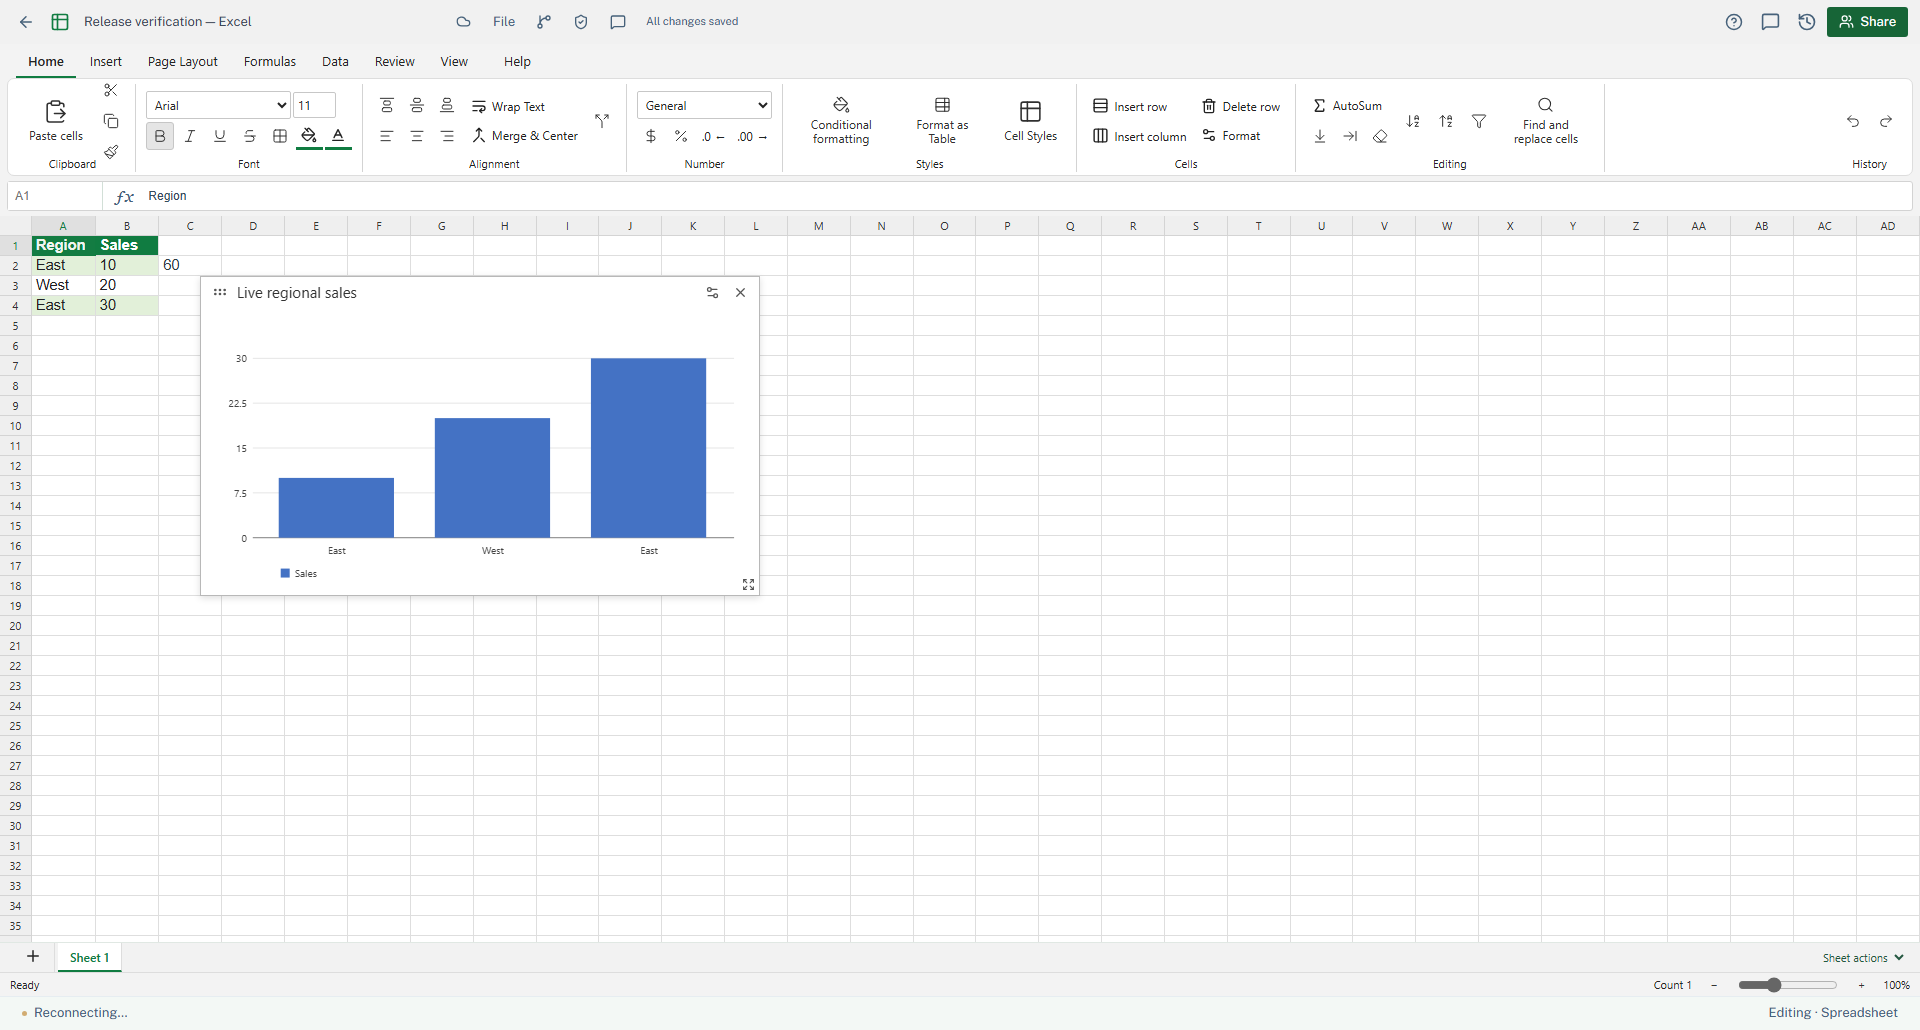
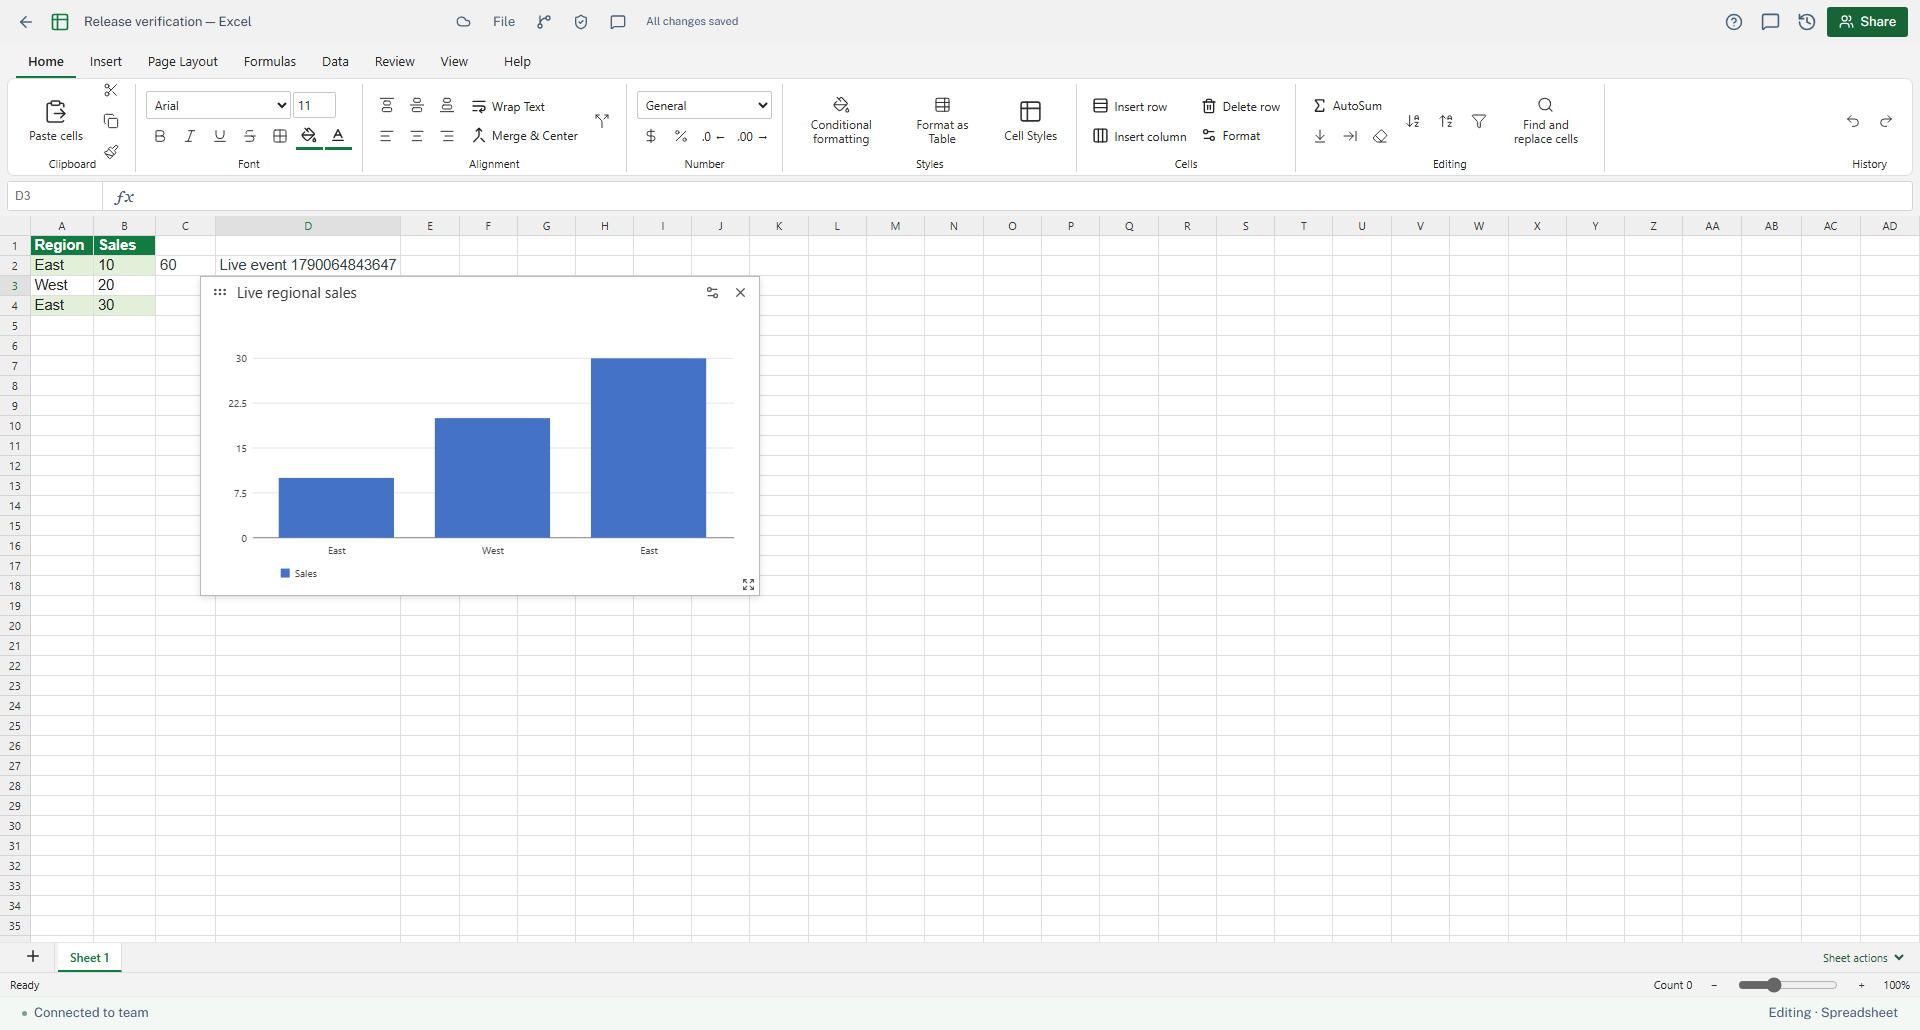
Record final CI and live cross-tab verification for the Office release

diff --git a/docs/OFFICE-EXPANSION-RELEASE.md b/docs/OFFICE-EXPANSION-RELEASE.md
@@ -37,7 +37,7 @@ Full Microsoft Office parity is not complete.
 
 - Frontend: all 121 unit tests pass in release CI. ESLint and full Prettier checks pass; Svelte/TypeScript reports zero errors and warnings. Production build passes.
 - Browser: all 33 scenarios pass across the broad production-build run (31 passes) and the focused final rerun (3 passes, one overlapping). The final rerun verifies the relocated print command, duplicate removal on Svelte state, named formulas, charts, actual pivot refresh, protection and reload. Other coverage includes concurrent edits, live page geometry, undo/identity, imports, permissions, drafts, recovery and accessibility.
-- Standalone engine: all 174 tests pass in [independent CI](https://github.com/ArefinAlter/dynodoc-engine/actions/runs/35700632086), with Rust formatting, strict Clippy, build, documentation and OpenAPI consistency for engine commit `e2a719d`. This includes protection ordering during snapshot restoration/merge; its two changed files are byte-identical in the app. All 16 SQL migration files remain byte-identical between repositories.
+- Standalone engine: all 174 tests pass in [independent CI](https://github.com/ArefinAlter/dynodoc-engine/actions/runs/35702827311), with Rust formatting, strict Clippy, build, documentation and OpenAPI consistency for engine commit `a22bf71`. This includes protection ordering during snapshot restoration/merge and immediate stream acknowledgement; all five synchronized Rust source/test files are byte-identical in the app. All 16 SQL migration files remain byte-identical between repositories.
 - Verification uses Windows Node 22.22.2, pinned Rust 1.96, a disposable PostgreSQL 16 container on loopback 5549, test-only auth/API on 8088 and a production web build on 4188. No hosted data is used. The existing development database is unchanged.
 - Synthetic 1920-pixel captures: [Excel Home ribbon](review/excel-editor-2026-09-22.png), [workbook home](review/excel-home-2026-09-22.png), [chart](review/excel-chart-2026-09-22.png). Supplied screenshots are reference material, not repository instructions or app assets.
 
@@ -87,6 +87,38 @@ preserving any unsaved text; the `office-v4` gate rejects obsolete editors.
 - Captures of the deployed UI: [Word](review/live-word-2026-09-22.png) and
   [Excel](review/live-excel-2026-09-22.png). Verification sessions use a separate
   synthetic account; screenshots contain only synthetic content.
+
+### Final stream correction
+
+Live multi-tab verification found that an idle stream could wait for its first
+30-second heartbeat before the browser received a response. Application commit
+[`b0ab062`](https://github.com/ArefinAlter/dynodoc/commit/b0ab062), ported from
+engine `a22bf71`, sends an authorized SSE comment immediately; it carries no event
+ID and does not advance replay. It is pushed to main and deployed as an API-only
+follow-up. The web bundle is unchanged from the verified Office build.
+
+The reviewed follow-up source archive SHA-256 is
[1 lines of base64/hex data omitted]
+all 398 files passed manifest verification. Source download now uses that archive.
+The second validated backup is `backups/dynodoc-20260922T080152Z.dump`; the previous
+API image is retained as `before-office-sse-20260922`. Event fingerprints matched
+across this rollout, and every other container retained its ID.
+
+The updated regression verifies acknowledgement before any write, followed by the
+existing 100 ms event-delivery assertion. The Windows run immediately after compilation
+missed the latter timing threshold; its focused rerun passed. Independent Linux CI
+passes the full suite. At 08:14 UTC, three live browser tabs received successful
+stream responses; a new edit in one spreadsheet tab appeared in the other. Navigation,
+connection, edit delivery and captures completed in about 5.1 seconds in this check;
+this is an observation, not a latency/load guarantee. Both editor captures above now
+show the connected state. Synthetic refresh sessions were revoked, temporary session
+files removed, and final workspace/admin HTTPS health passed.
+
+All final runtime checks pass: [Rust](https://github.com/ArefinAlter/dynodoc/actions/runs/35703185807),
+[frontend and authenticated workflows](https://github.com/ArefinAlter/dynodoc/actions/runs/35703185796),
+and [standalone engine](https://github.com/ArefinAlter/dynodoc-engine/actions/runs/35702827311).
+Vercel reports successful deployment for `b0ab062`. Later documentation-only commits
+do not change the deployed runtime.
 
 ## Remaining gaps
 

diff --git a/docs/HANDOFF.md b/docs/HANDOFF.md
@@ -18,7 +18,8 @@ and the old charts/pivots/note-body deferrals. The new work adds the Excel refer
 UI, native supported charts, pivot summaries, named ranges, data tools, server-checked
 sheet protection, and Word note/contents editing. Full Office parity, native pivot
 caches and live per-page footnote layout remain unfinished. Publication and runtime
-status is recorded in the release record: `a413c20` is pushed to main and deployed
+status is recorded in the release record: `b0ab062` (including the `a413c20` UI
+release and the immediate stream acknowledgement) is pushed to main and deployed
 to the VPS workspace on 22 September, with passing frontend/authenticated/Rust CI
 and live synthetic browser checks. The MIT engine is published independently.
 

diff --git a/docs/PROJECT-STATUS.md b/docs/PROJECT-STATUS.md
@@ -11,7 +11,8 @@ and the old charts/pivots/note-body deferrals. The new work adds the Excel refer
 UI, native supported charts, pivot summaries, named ranges, data tools, server-checked
 sheet protection, and Word note/contents editing. Full Office parity, native pivot
 caches and live per-page footnote layout remain unfinished. Publication and runtime
-status is recorded in the release record: `a413c20` is pushed to main and deployed
+status is recorded in the release record: `b0ab062` (including the `a413c20` UI
+release and the immediate stream acknowledgement) is pushed to main and deployed
 to the VPS workspace on 22 September, with passing frontend/authenticated/Rust CI
 and live synthetic browser checks. The MIT engine is published independently.
 
